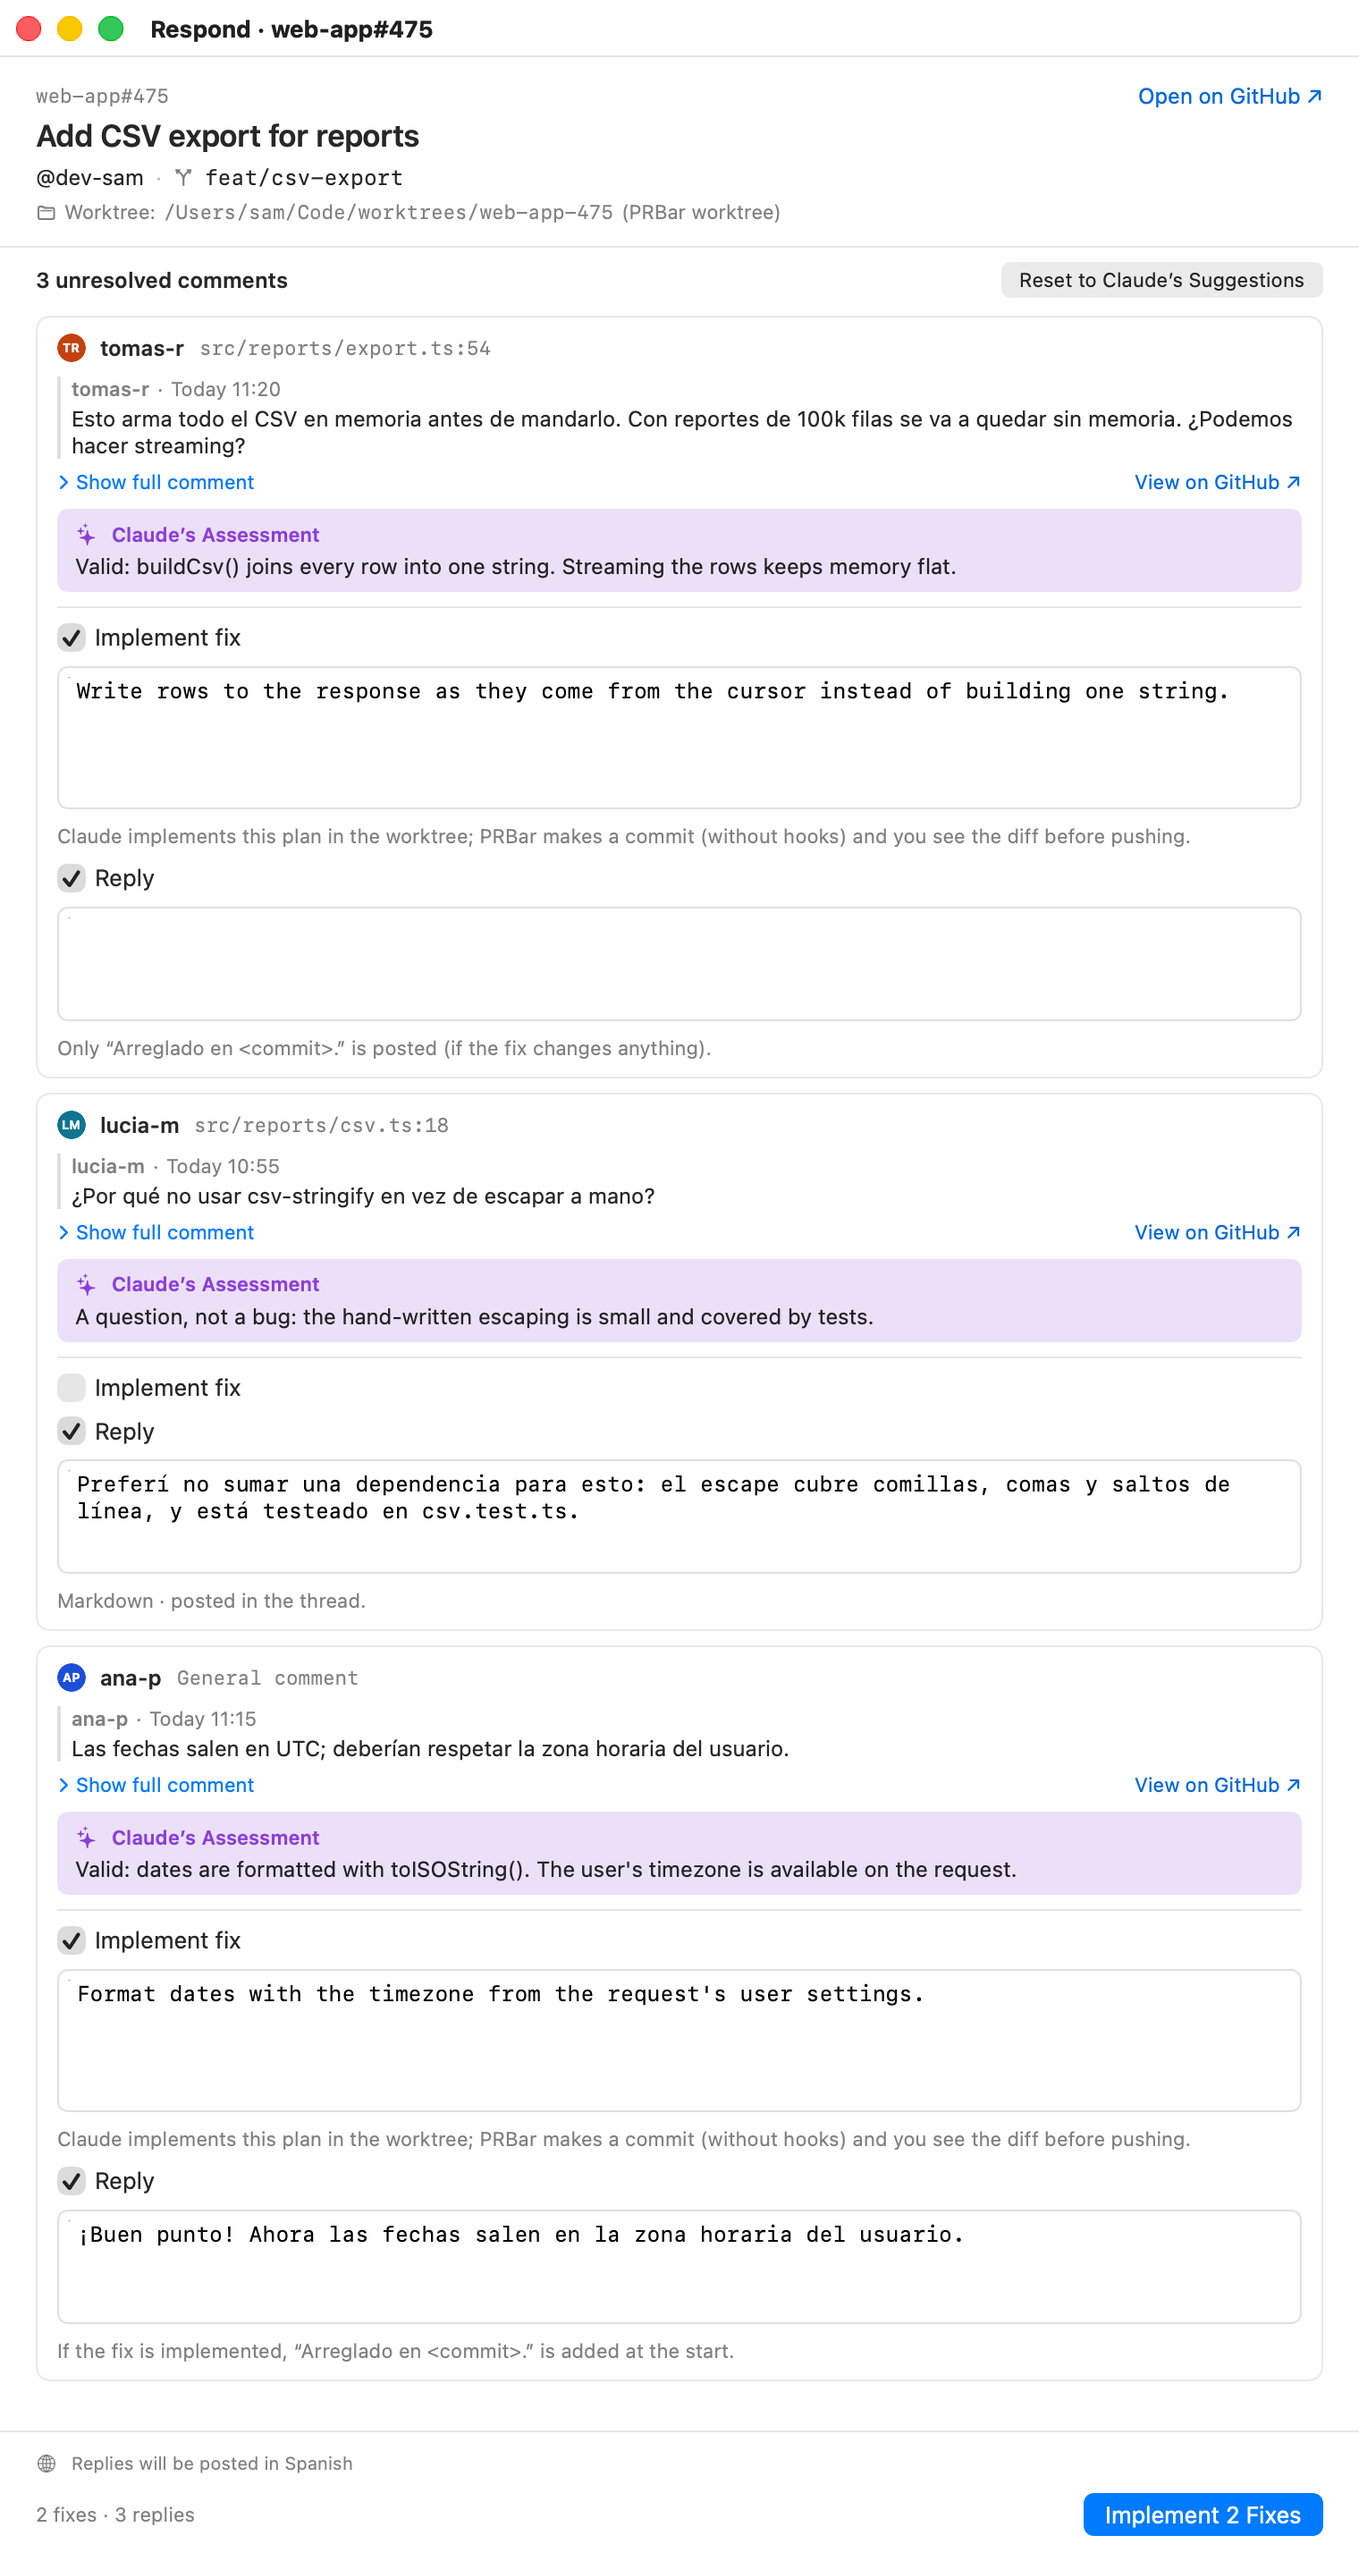
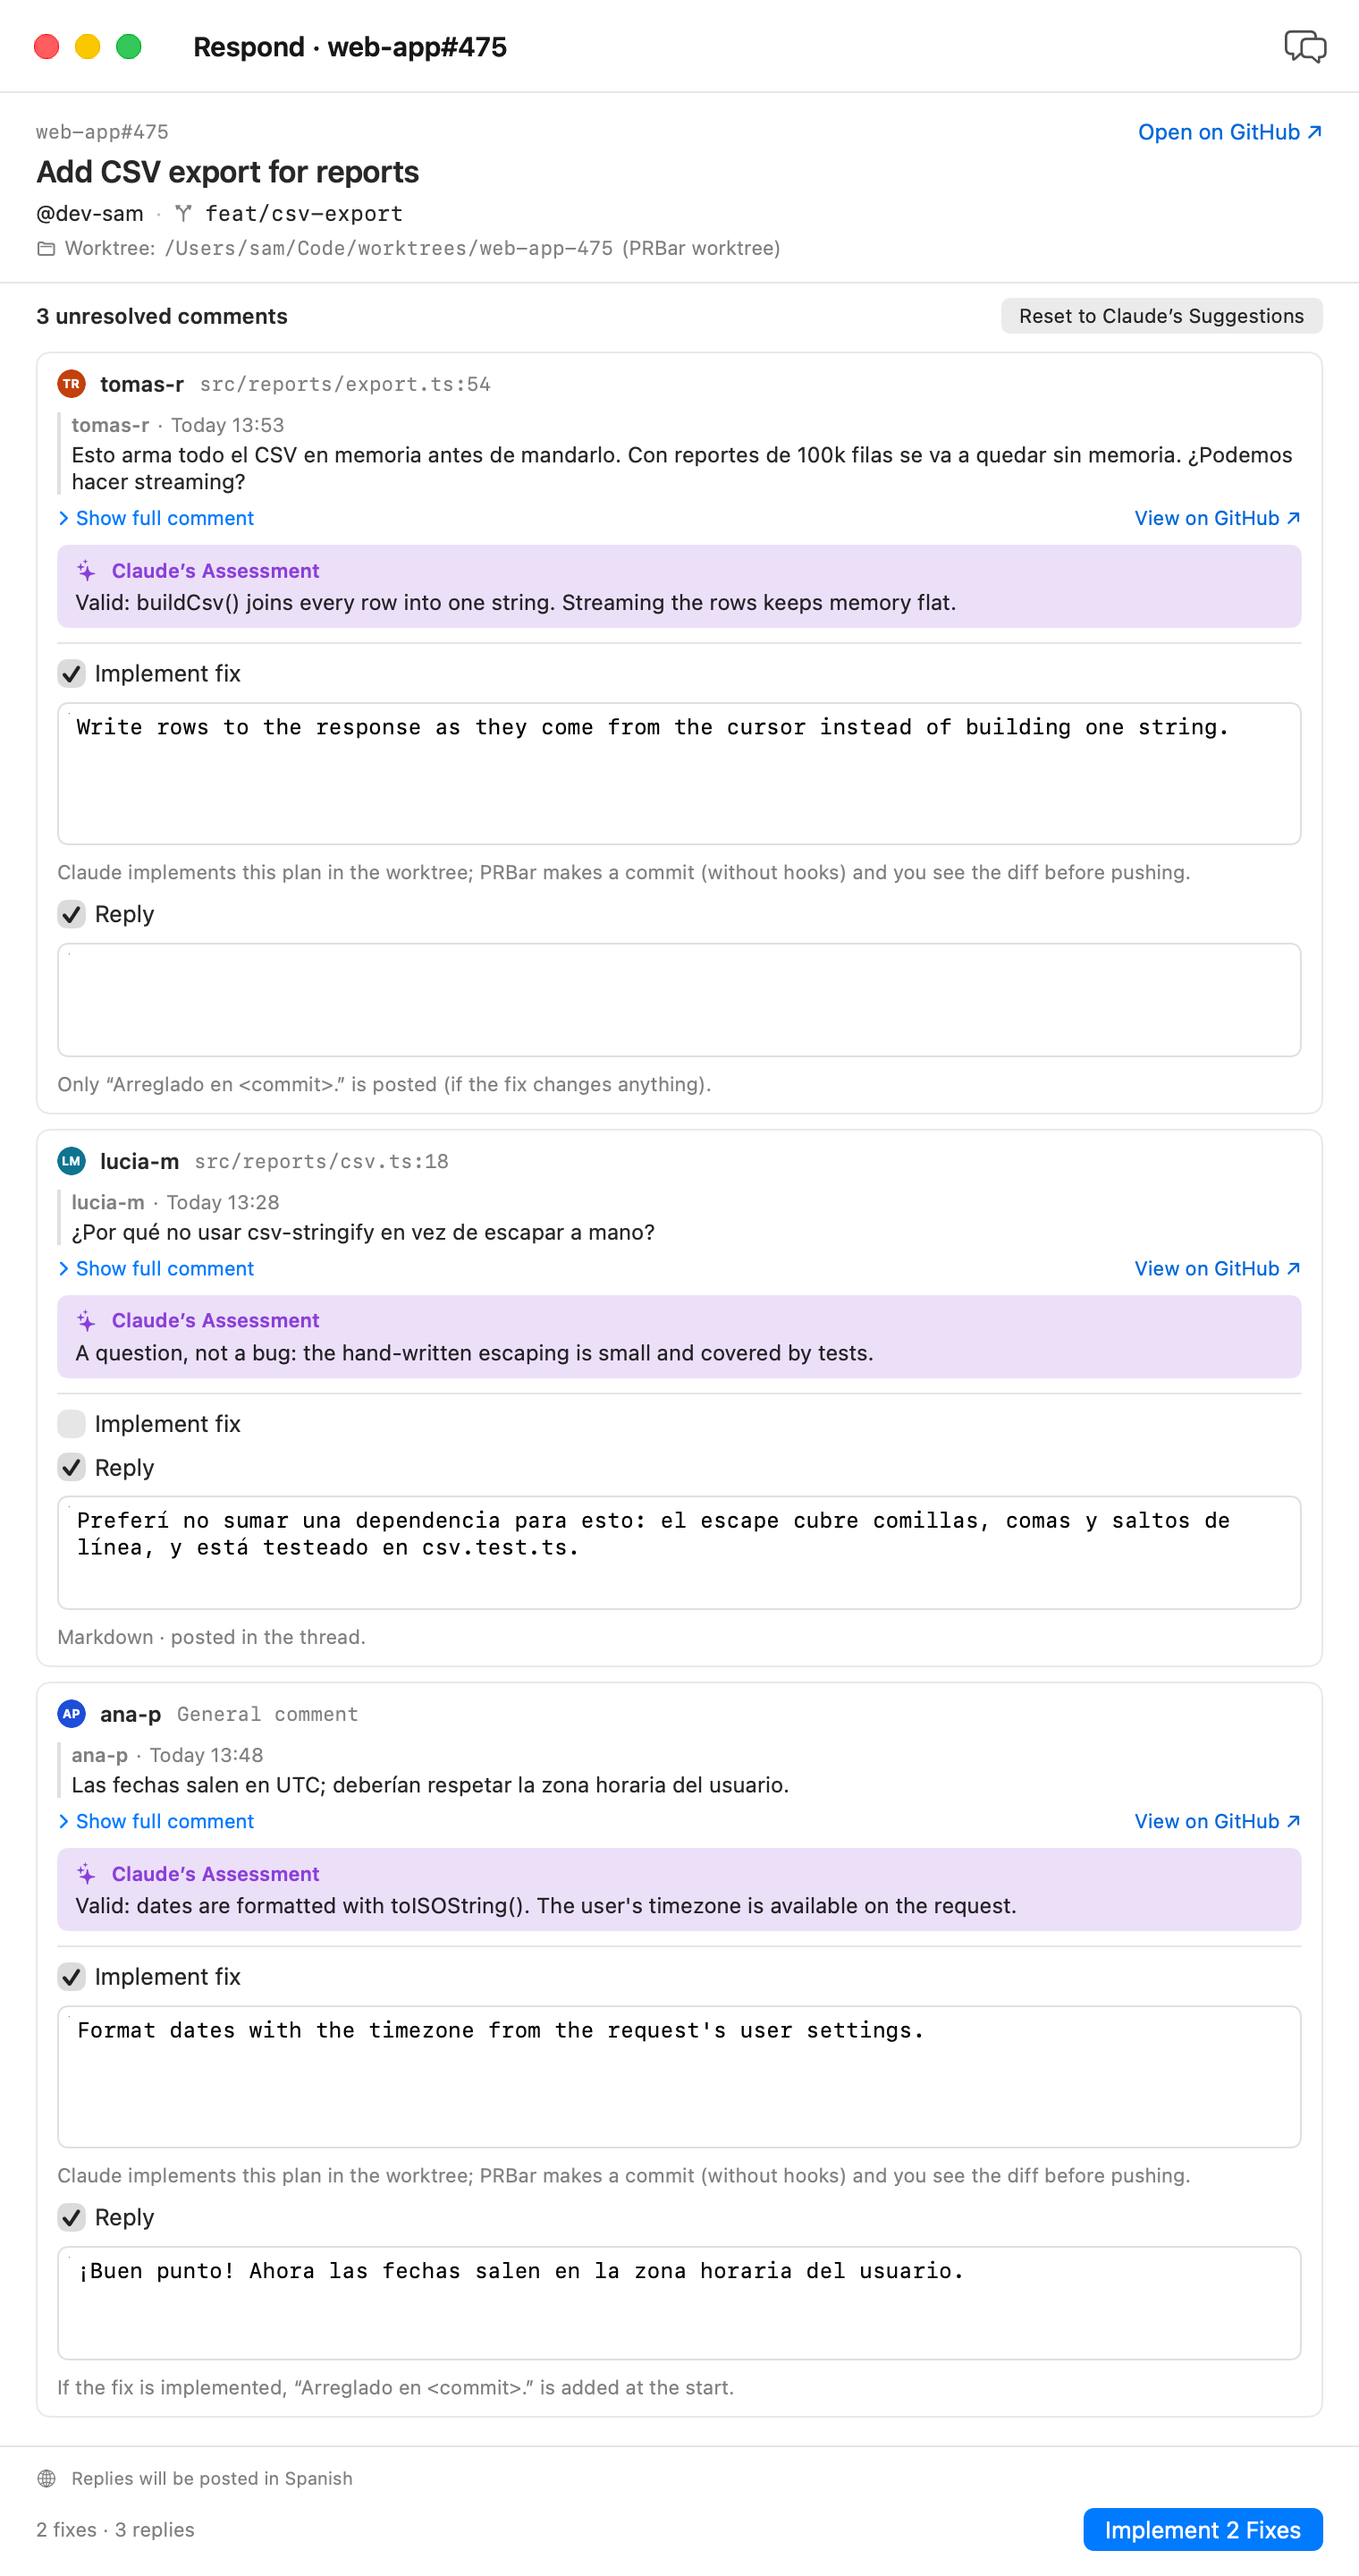
docs: chat snapshots for the Review and Respond windows

diff --git a/Sources/PRBar/Snapshots/SnapshotFixtures.swift b/Sources/PRBar/Snapshots/SnapshotFixtures.swift
@@ -302,6 +302,60 @@ struct SnapshotFixtures {
         """)
     }
 
+    // MARK: Chat
+
+    /// The chat of the api#317 review: a question that narrows #2 and a finding Claude added (#6).
+    var reviewChat: ChatSession {
+        var session = ChatSession(prID: loginRedirect.id, kind: .review)
+        session.claudeSessionID = UUID(uuidString: "0D5C4E61-7A1B-4C1E-9F1A-2B3C4D5E6F70")
+        session.messages = [
+            ChatMessage(role: .user, text: "Is #2 really a problem? Most of our API calls already send Accept: application/json.",
+                        createdAt: date(minutes: -9)),
+            ChatMessage(role: .assistant,
+                        text: "Mostly yes: `fetchJSON()` in `src/api/client.ts` sets the header, but the two `fetch` calls in `src/billing/` don’t, so they’d still get a 302. I narrowed #2 to say exactly that.",
+                        createdAt: date(minutes: -8), changes: [.findingEdited(id: "api-401")]),
+            ChatMessage(role: .user, text: "Agregá un finding porque POST /login no tiene rate limit", createdAt: date(minutes: -4)),
+            ChatMessage(role: .assistant,
+                        text: "Listo, agregué el #6: `POST /login` no limita los intentos. Lo marqué como medio y sugiero reusar el middleware `rateLimit`.",
+                        createdAt: date(minutes: -3), changes: [.findingAdded(id: "c1")]),
+        ]
+        return session
+    }
+
+    /// The Review window's state after `reviewChat`: #2 rewritten and #6 added and selected.
+    var reviewChatEdits: ReviewEdits {
+        var edits = ReviewEdits.initial(for: loginRedirectDraft)
+        edits.bodies["api-401"] = "Las llamadas `fetch` de `src/billing/` no mandan `Accept: application/json`, así que reciben un 302 a HTML en vez de un 401. Conviene responder 401 cuando el pedido no es de navegación."
+        edits.added = [ReviewItem(
+            finding: ReviewFinding(id: "c1", severity: .medium, file: "src/auth/login.ts", line: 23,
+                                   title: "POST /login no limita los intentos",
+                                   body: "Sin rate limit se pueden probar contraseñas sin freno. Sugiero reusar el middleware `rateLimit` de `src/api/limits.ts`."),
+            keep: true, reason: ChatActions.addedReason)]
+        edits.selected.insert("c1")
+        edits.generalComment = Self.generalComment
+        return edits
+    }
+
+    /// The chat of the web-app#475 respond: a reply drafted for Lucía and a change to the fixes.
+    var respondChat: ChatSession {
+        var session = ChatSession(prID: csvExport.id, kind: .respond)
+        session.claudeSessionID = UUID(uuidString: "5A4B3C2D-1E0F-4A1B-8C2D-3E4F5A6B7C8D")
+        session.messages = [
+            ChatMessage(role: .user, text: "Contestale a Lucía que podemos pasar a csv-stringify más adelante",
+                        createdAt: date(minutes: -12)),
+            ChatMessage(role: .assistant,
+                        text: "Actualicé la respuesta a @lucia-m: explica por qué el escape a mano alcanza hoy y propone pasar a csv-stringify en otro PR.",
+                        createdAt: date(minutes: -11), changes: [.replyDrafted(commentID: "thread:2")]),
+            ChatMessage(role: .user, text: "formatDate should fall back to UTC when the user has no timezone",
+                        createdAt: date(minutes: -6)),
+            ChatMessage(role: .assistant,
+                        text: "Done: `formatDate()` falls back to UTC and there’s a test for it. PRBar committed the change; check the diff before pushing.",
+                        createdAt: date(minutes: -5),
+                        changes: [.filesChanged(["src/reports/formatDate.ts", "src/reports/formatDate.test.ts"])]),
+        ]
+        return session
+    }
+
     // MARK: History
 
     /// ~6 records, the published review of api#317 the newest (it's the one selected).

diff --git a/Sources/PRBar/Snapshots/SnapshotMode.swift b/Sources/PRBar/Snapshots/SnapshotMode.swift
@@ -190,6 +190,14 @@ private final class SnapshotSession {
                 showsDiscarded: true, expandedFindings: ["open-redirect"]
             ))
         }
+        var chatDraft = fixtures.loginRedirectDraft
+        chatDraft.chat = fixtures.reviewChat
+        chatDraft.edits = fixtures.reviewChatEdits
+        let reviewChat = model.reviewChat(for: chatDraft)
+        try await window("review-chat", title: title, size: NSSize(width: 1180, height: 980)) {
+            ReviewWindow(model: model, draft: chatDraft, chat: reviewChat, published: nil, close: {},
+                         initialState: .init(showsChat: true))
+        }
         let published = PublishedReview(record: fixtures.publishedLoginRedirect)
         let publishedDraft = fixtures.loginRedirectDraft
         try await window("review-published", title: title, size: ReviewWindow.size) {
@@ -206,6 +214,7 @@ private final class SnapshotSession {
             return false
         }
         guard let draft = model.respond.records[prID]?.draft else { throw SnapshotError(message: "No respond draft") }
+        model.respond.setChat(prID: prID, draftID: draft.id, chat: fixtures.respondChat)
         let title = "Respond · \(draft.repo.name)#\(draft.number)"
         try await window("respond-choose", title: title, size: NSSize(width: 760, height: 1440)) {
             RespondWindow(model: model, prID: prID, draft: draft, chat: model.respondChat(for: draft), close: {})
@@ -224,6 +233,9 @@ private final class SnapshotSession {
         }
         try await window("respond-ready-to-push", title: title, size: NSSize(width: 760, height: 1140)) {
             RespondWindow(model: model, prID: prID, draft: draft, chat: model.respondChat(for: draft), close: {})
+        }
+        try await window("respond-chat", title: title, size: NSSize(width: 1180, height: 1140)) {
+            RespondWindow(model: model, prID: prID, draft: draft, chat: model.respondChat(for: draft), showsChat: true, close: {})
         }
     }
 

diff --git a/docs/screenshots/README.md b/docs/screenshots/README.md
@@ -24,8 +24,10 @@ Every screen comes in `-light` and `-dark`, at 2x:
 | `popover-empty` | The "All Caught Up" state |
 | `review-window` | The Review window: Claude's summary, 3 kept findings (one expanded for editing), 2 discarded with reasons, a general comment, comments posted in Spanish |
 | `review-published` | The Review window after posting |
+| `review-chat` | The Review window with the chat open: a question that narrowed #2 and a finding Claude added (#6) |
 | `respond-choose` | Respond: choosing what to do with 3 comments (fix, reply, fix + reply) |
 | `respond-ready-to-push` | Respond: 2 commits, the diff, the `package.json` warning, tests passed, Push and Reply |
+| `respond-chat` | Respond, ready to push, with the chat open: a reply drafted for a reviewer and a change to the fixes’ code |
 | `history` | The History window with 6 reviews and responses, one selected |
 | `settings-general`, `settings-claude`, `settings-accounts`, `settings-repos`, `settings-slack` | Each Settings tab, configured |
 | `notification` | **An illustration** of the "Review Ready" notification, not a capture of the real macOS banner |
